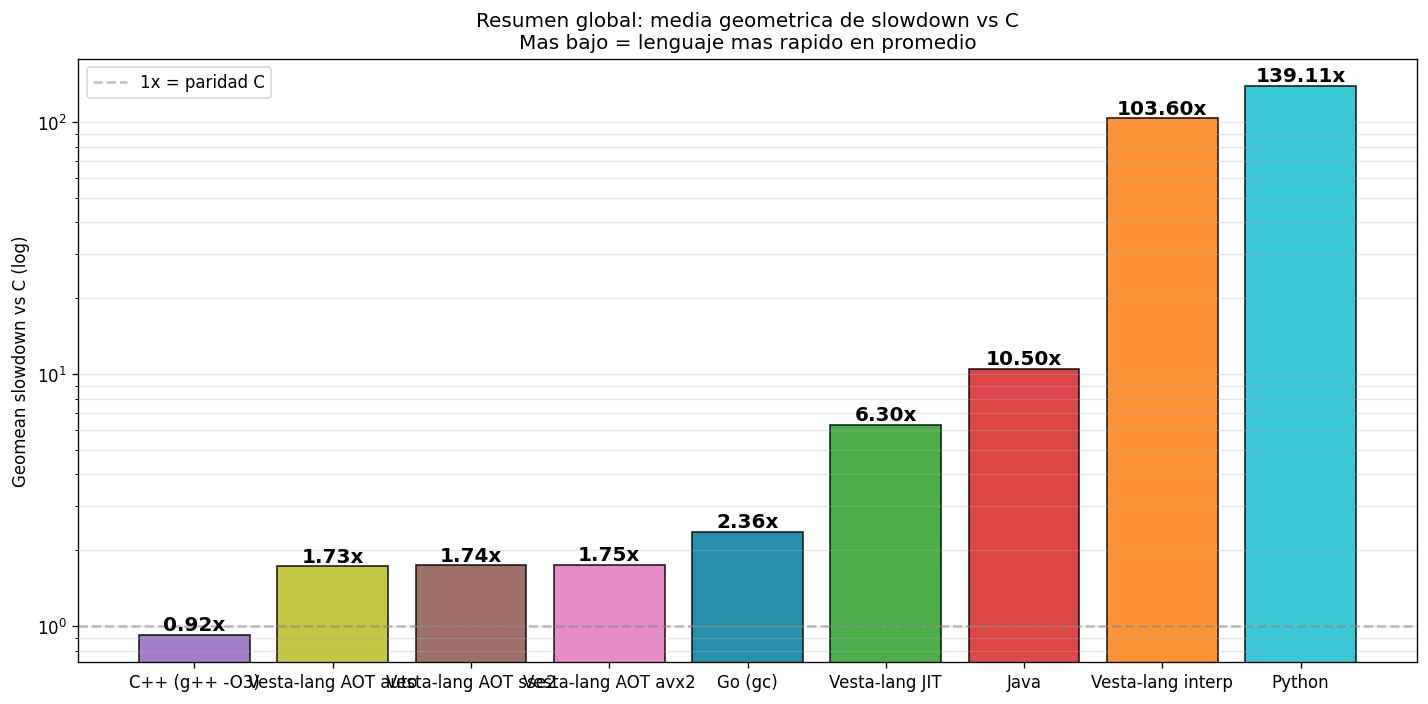
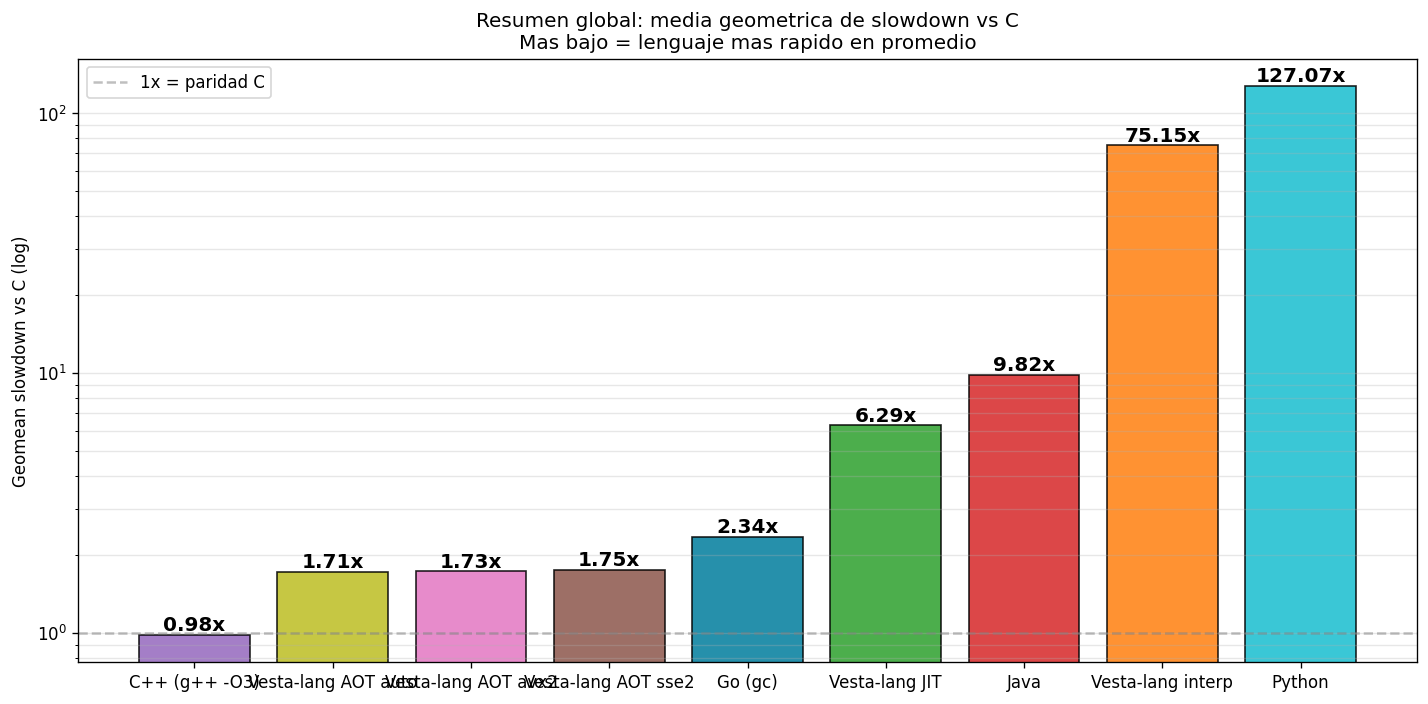
codegen: el parallel-move del vreg (JIT/AOT) usa el modulo compartido
Segunda mitad de la dedup del parallel-move: emit_parallel_moves (GP, MOV) y
emit_parallel_moves_fp (XMM, MOVSD) en regalloc_rewrite.cpp delegan la
SECUENCIACION (orden topologico + ruptura de ciclos) en codegen::sequence_
parallel_moves -- el MISMO algoritmo que el interp.  Cada backend solo emite el
paso en su idioma (MOV/MOVSD de MachineIR).  El src no-registro (MEM) va con
sentinela negativo; se recupera el MOperand original.  El algoritmo de
parallel-move queda UNIFICADO en los 3 backends (interp .vel + JIT + AOT).
e2e 724/0, diff_harness limpio.

diff --git a/bench_plots/index.html b/bench_plots/index.html
@@ -33,7 +33,7 @@
     </style>
 </head><body>
 <h1>VestaVM Benchmark Report</h1>
-<p class="meta">Generado 2026-07-21 00:08:46 &middot; JSON: <code>F:\C\VM\bench_results.json</code></p>
+<p class="meta">Generado 2026-07-24 22:57:32 &middot; JSON: <code>F:\C\VM\bench_results.json</code></p>
 <h2>Sistema</h2>
 <dl class="sysinfo">
 <dt>CPU</dt><dd>13th Gen Intel(R) Core(TM) i7-13700KF (16 fisicos / 24 logicos @ 3400 MHz)</dd>
@@ -43,7 +43,7 @@
 </dl>
 <h2>Toolchains</h2>
 <dl class="sysinfo">
-<dt>Vesta-lang VM</dt><dd>Vesta v0.1.0-alpha (build 2026-07-21 00:07:06, 1e4311b+)</dd>
+<dt>Vesta-lang VM</dt><dd>Vesta v0.1.0-alpha (build 2026-07-24 22:15:37, 2b116f7)</dd>
 <dt>C (gcc)</dt><dd>gcc.EXE (tdm64-1) 10.3.0</dd>
 <dt>C++ (g++)</dt><dd>g++.EXE (tdm64-1) 10.3.0</dd>
 <dt>Python</dt><dd>Python 3.11.0</dd>
@@ -55,51 +55,51 @@
 <table>
 <thead><tr><th>Benchmark</th><th>Vesta-lang interp</th><th>Vesta-lang JIT</th><th>Vesta-lang AOT sse2</th><th>Vesta-lang AOT avx2</th><th>Vesta-lang AOT auto</th><th>C (gcc -O3)</th><th>C++ (g++ -O3)</th><th>Python (CPython)</th><th>Java (HotSpot)</th><th>Go (gc)</th></tr></thead>
 <tbody>
-<tr><td>alloc</td><td>133.1</td><td>33.0</td><td>3.6</td><td>5.8</td><td>3.7</td><td>3.3</td><td class="winner">2.8</td><td>582.3</td><td>73.7</td><td>48.7</td></tr>
-<tr><td>array_sum</td><td>1268.1</td><td>45.8</td><td>12.5</td><td>12.4</td><td>12.6</td><td class="winner">4.5</td><td>5.0</td><td>474.0</td><td>81.1</td><td>11.5</td></tr>
-<tr><td>bitops</td><td>2870.5</td><td>67.4</td><td>38.3</td><td>40.6</td><td>38.8</td><td class="winner">26.1</td><td>26.2</td><td>7328.5</td><td>92.3</td><td>32.7</td></tr>
-<tr><td>branch_unpredict</td><td>3768.4</td><td>54.7</td><td>24.8</td><td>24.5</td><td>24.6</td><td>18.5</td><td class="winner">17.8</td><td>3057.4</td><td>175.0</td><td>20.2</td></tr>
-<tr><td>callvirt</td><td>751.1</td><td>42.8</td><td>9.0</td><td>9.3</td><td>8.9</td><td>4.3</td><td class="winner">2.9</td><td>1848.4</td><td>75.4</td><td>29.2</td></tr>
-<tr><td>callvirt_hot</td><td>314.4</td><td>35.2</td><td>6.1</td><td class="winner">5.8</td><td>5.9</td><td>11.7</td><td>5.9</td><td>727.7</td><td>73.7</td><td>13.9</td></tr>
-<tr><td>cmp_fusion</td><td>703.7</td><td>52.1</td><td>13.6</td><td>13.2</td><td>13.7</td><td>3.9</td><td class="winner">2.8</td><td>1867.5</td><td>71.8</td><td>14.7</td></tr>
-<tr><td>fib_recursive</td><td>345.1</td><td>40.2</td><td>12.4</td><td>12.3</td><td>12.4</td><td>6.1</td><td class="winner">5.8</td><td>250.1</td><td>75.6</td><td>12.1</td></tr>
-<tr><td>fp_jit</td><td>516.1</td><td>77.3</td><td>44.6</td><td>47.6</td><td>44.9</td><td class="winner">10.2</td><td>10.2</td><td>1347.4</td><td>90.7</td><td>20.8</td></tr>
-<tr><td>hash_lookup</td><td>3995.4</td><td>93.3</td><td>64.6</td><td>63.4</td><td>64.7</td><td>15.2</td><td class="winner">13.6</td><td>6694.4</td><td>125.0</td><td>65.6</td></tr>
-<tr><td>int_mixed</td><td>2057.8</td><td>51.4</td><td>26.3</td><td>23.3</td><td>23.1</td><td>19.6</td><td class="winner">19.0</td><td>10988.0</td><td>93.0</td><td>21.1</td></tr>
-<tr><td>intops_jit</td><td>1484.2</td><td>38.5</td><td>7.4</td><td>8.1</td><td>7.2</td><td>3.5</td><td class="winner">3.3</td><td>1122.5</td><td>76.9</td><td>7.6</td></tr>
-<tr><td>jit_method</td><td>429.6</td><td>45.0</td><td>10.0</td><td>10.6</td><td>9.9</td><td class="winner">3.9</td><td>4.0</td><td>1229.4</td><td>79.7</td><td>11.7</td></tr>
-<tr><td>mem_class</td><td>41.5</td><td>30.9</td><td>3.0</td><td>3.4</td><td>2.9</td><td>3.3</td><td class="winner">2.8</td><td>178.8</td><td>70.8</td><td>13.5</td></tr>
-<tr><td>mem_malloc_free</td><td>621.4</td><td>34.9</td><td>6.9</td><td>5.5</td><td>7.1</td><td class="winner">4.4</td><td>4.5</td><td>603.6</td><td>77.5</td><td>88.3</td></tr>
-<tr><td>mem_struct</td><td>502.9</td><td>32.4</td><td>4.9</td><td>4.6</td><td>7.5</td><td class="winner">2.9</td><td>3.9</td><td>499.9</td><td>82.5</td><td>20.3</td></tr>
-<tr><td>memcpy_loop</td><td>1747.5</td><td>34.3</td><td>5.6</td><td>5.7</td><td class="winner">5.3</td><td>5.6</td><td>5.9</td><td>3434.9</td><td>102.4</td><td>23.4</td></tr>
-<tr><td>nested_loops</td><td>1995.1</td><td>55.6</td><td>18.1</td><td>18.0</td><td>18.3</td><td class="winner">14.2</td><td>14.2</td><td>1645.8</td><td>80.7</td><td>22.5</td></tr>
-<tr><td>obj_accum</td><td>1952.3</td><td>71.2</td><td>42.6</td><td>42.9</td><td>42.0</td><td class="winner">28.5</td><td>28.8</td><td>4341.3</td><td>102.8</td><td>32.5</td></tr>
-<tr><td>pic_real</td><td>576.7</td><td>155.0</td><td>11.4</td><td>11.1</td><td>11.5</td><td class="winner">5.6</td><td>6.3</td><td>320.5</td><td>76.1</td><td>7.7</td></tr>
-<tr><td>polymorphic</td><td>723.7</td><td>64.1</td><td>29.6</td><td>30.0</td><td>29.7</td><td class="winner">8.8</td><td>9.4</td><td>1062.9</td><td>81.1</td><td>13.3</td></tr>
-<tr><td>quicksort</td><td>237.3</td><td>38.6</td><td>9.4</td><td>8.9</td><td>9.5</td><td class="winner">7.2</td><td>7.5</td><td>160.6</td><td>82.3</td><td>9.8</td></tr>
-<tr><td>rotops_jit</td><td>977.0</td><td>38.4</td><td>4.7</td><td>8.2</td><td>5.1</td><td>7.7</td><td class="winner">3.9</td><td>1391.8</td><td>80.0</td><td>7.1</td></tr>
-<tr><td>state_machine</td><td>2288.9</td><td>69.3</td><td>40.2</td><td>38.8</td><td>38.9</td><td>24.2</td><td class="winner">20.4</td><td>1633.2</td><td>89.1</td><td>24.4</td></tr>
-<tr><td>string_hot</td><td>42.8</td><td>30.9</td><td>9.9</td><td>8.3</td><td>8.8</td><td>8.6</td><td class="winner">6.4</td><td>68.0</td><td>82.4</td><td>19.9</td></tr>
-<tr><td>string_workout</td><td>1965.2</td><td>301.1</td><td>58.8</td><td>58.6</td><td>60.2</td><td>30.8</td><td>38.1</td><td>534.5</td><td>186.6</td><td class="winner">20.7</td></tr>
-<tr><td>struct_field</td><td>1253.5</td><td>52.0</td><td>20.7</td><td>21.4</td><td>20.8</td><td>5.2</td><td class="winner">5.0</td><td>5186.0</td><td>78.3</td><td>18.1</td></tr>
-<tr><td>tight_loop</td><td>1906.6</td><td>49.5</td><td>13.0</td><td>13.6</td><td>15.0</td><td class="winner">12.8</td><td>13.1</td><td>1069.3</td><td>81.6</td><td>21.6</td></tr>
-<tr><td>vec_axpy</td><td>18754.8</td><td>86.0</td><td>78.3</td><td>45.1</td><td>44.9</td><td>18.3</td><td class="winner">17.6</td><td>6096.1</td><td>120.9</td><td>64.2</td></tr>
+<tr><td>alloc</td><td>90.9</td><td>44.1</td><td>5.1</td><td>5.4</td><td>4.8</td><td>4.1</td><td class="winner">3.8</td><td>593.9</td><td>75.5</td><td>50.8</td></tr>
+<tr><td>array_sum</td><td>1203.7</td><td>43.3</td><td>12.2</td><td>12.7</td><td>12.2</td><td>6.6</td><td class="winner">5.7</td><td>475.1</td><td>84.9</td><td>15.1</td></tr>
+<tr><td>bitops</td><td>2463.7</td><td>65.4</td><td>40.6</td><td>39.5</td><td>39.9</td><td class="winner">26.2</td><td>26.5</td><td>7150.2</td><td>98.2</td><td>34.5</td></tr>
+<tr><td>branch_unpredict</td><td>2755.1</td><td>60.7</td><td>27.4</td><td>27.5</td><td>27.2</td><td>19.0</td><td class="winner">18.7</td><td>3039.9</td><td>176.7</td><td>21.8</td></tr>
+<tr><td>callvirt</td><td>409.7</td><td>43.1</td><td>8.8</td><td>8.6</td><td>9.5</td><td class="winner">3.8</td><td>5.7</td><td>1812.8</td><td>72.5</td><td>29.8</td></tr>
+<tr><td>callvirt_hot</td><td>188.6</td><td>95.4</td><td>5.9</td><td>6.1</td><td>6.0</td><td>11.9</td><td class="winner">5.7</td><td>741.7</td><td>73.0</td><td>14.0</td></tr>
+<tr><td>cmp_fusion</td><td>782.6</td><td>51.2</td><td>13.8</td><td>14.1</td><td>14.3</td><td class="winner">3.4</td><td>4.3</td><td>1869.2</td><td>77.2</td><td>16.1</td></tr>
+<tr><td>fib_recursive</td><td>312.0</td><td>41.9</td><td>13.7</td><td>13.2</td><td>14.4</td><td class="winner">7.1</td><td>8.2</td><td>255.4</td><td>77.8</td><td>13.7</td></tr>
+<tr><td>fp_jit</td><td>432.3</td><td>72.5</td><td>47.0</td><td>47.3</td><td>46.7</td><td>11.9</td><td class="winner">10.9</td><td>1352.1</td><td>93.6</td><td>22.3</td></tr>
+<tr><td>hash_lookup</td><td>3900.9</td><td>97.3</td><td>67.0</td><td>65.9</td><td>67.7</td><td class="winner">13.9</td><td>14.7</td><td>6590.5</td><td>137.4</td><td>67.4</td></tr>
+<tr><td>int_mixed</td><td>1915.8</td><td>51.2</td><td>24.2</td><td>23.7</td><td>24.7</td><td>19.7</td><td class="winner">19.5</td><td>12774.6</td><td>91.7</td><td>22.1</td></tr>
+<tr><td>intops_jit</td><td>1145.6</td><td>38.0</td><td>8.8</td><td>9.3</td><td>8.8</td><td>4.3</td><td class="winner">3.9</td><td>1095.7</td><td>79.0</td><td>9.8</td></tr>
+<tr><td>jit_method</td><td>480.3</td><td>44.7</td><td>10.7</td><td>10.4</td><td>10.2</td><td class="winner">4.6</td><td>4.9</td><td>1213.9</td><td>76.7</td><td>12.7</td></tr>
+<tr><td>mem_class</td><td>44.2</td><td>31.4</td><td>4.7</td><td>5.6</td><td>4.6</td><td>5.0</td><td class="winner">3.8</td><td>178.6</td><td>74.5</td><td>14.1</td></tr>
+<tr><td>mem_malloc_free</td><td>664.0</td><td>33.6</td><td>6.6</td><td>6.8</td><td>7.1</td><td>5.9</td><td class="winner">4.9</td><td>592.7</td><td>78.0</td><td>87.8</td></tr>
+<tr><td>mem_struct</td><td>365.2</td><td>34.1</td><td>6.0</td><td>6.3</td><td>5.8</td><td>4.9</td><td class="winner">3.5</td><td>438.9</td><td>74.5</td><td>21.1</td></tr>
+<tr><td>memcpy_loop</td><td>67.2</td><td>33.6</td><td>6.8</td><td>6.4</td><td>6.9</td><td class="winner">6.2</td><td>6.5</td><td>3381.4</td><td>103.5</td><td>24.4</td></tr>
+<tr><td>nested_loops</td><td>1545.7</td><td>52.2</td><td>19.0</td><td>18.0</td><td>18.2</td><td>15.3</td><td class="winner">15.1</td><td>1593.7</td><td>85.7</td><td>23.5</td></tr>
+<tr><td>obj_accum</td><td>1684.6</td><td>79.5</td><td>43.4</td><td>42.9</td><td>43.8</td><td class="winner">29.4</td><td>29.5</td><td>4227.1</td><td>98.6</td><td>32.6</td></tr>
+<tr><td>pic_real</td><td>598.4</td><td>479.1</td><td>12.5</td><td>12.1</td><td>11.8</td><td class="winner">5.9</td><td>6.8</td><td>312.5</td><td>75.6</td><td>8.5</td></tr>
+<tr><td>polymorphic</td><td>403.1</td><td>61.0</td><td>31.0</td><td>30.1</td><td>29.8</td><td class="winner">9.3</td><td>10.4</td><td>1063.0</td><td>82.7</td><td>13.9</td></tr>
+<tr><td>quicksort</td><td>268.1</td><td>36.6</td><td>10.9</td><td>10.3</td><td>10.6</td><td class="winner">8.0</td><td>10.9</td><td>153.7</td><td>81.2</td><td>10.8</td></tr>
+<tr><td>rotops_jit</td><td>807.8</td><td>34.3</td><td>6.8</td><td>6.5</td><td>6.5</td><td class="winner">4.7</td><td>4.8</td><td>1425.8</td><td>79.6</td><td>8.3</td></tr>
+<tr><td>state_machine</td><td>1487.5</td><td>68.5</td><td>39.3</td><td>39.9</td><td>39.3</td><td class="winner">20.1</td><td>20.4</td><td>1607.9</td><td>90.2</td><td>28.1</td></tr>
+<tr><td>string_hot</td><td>41.5</td><td>34.5</td><td>8.8</td><td>10.2</td><td>9.3</td><td>9.8</td><td class="winner">6.6</td><td>66.6</td><td>83.2</td><td>20.1</td></tr>
+<tr><td>string_workout</td><td>3021.4</td><td>276.3</td><td>62.2</td><td>62.3</td><td>64.6</td><td>32.0</td><td>40.7</td><td>514.4</td><td>184.7</td><td class="winner">21.6</td></tr>
+<tr><td>struct_field</td><td>1208.2</td><td>52.5</td><td>21.7</td><td>22.2</td><td>22.4</td><td class="winner">6.1</td><td>6.4</td><td>5085.5</td><td>82.5</td><td>19.3</td></tr>
+<tr><td>tight_loop</td><td>1374.5</td><td>50.1</td><td>15.1</td><td>14.9</td><td>14.8</td><td class="winner">13.6</td><td>14.0</td><td>1027.6</td><td>82.7</td><td>23.3</td></tr>
+<tr><td>vec_axpy</td><td>25583.2</td><td>85.1</td><td>79.4</td><td>46.5</td><td>45.1</td><td>18.4</td><td class="winner">17.5</td><td>6016.3</td><td>122.5</td><td>64.0</td></tr>
 </tbody></table>
 <h2>Geomean slowdown vs C por categoria</h2>
 <p class="meta">Verde &lt;1.5x &middot; Amarillo &lt;3x &middot; Rojo &ge;3x</p>
 <table>
 <thead><tr><th>Categoria</th><th>N</th><th>Vesta-lang interp</th><th>Vesta-lang JIT</th><th>Vesta-lang AOT sse2</th><th>Vesta-lang AOT avx2</th><th>Vesta-lang AOT auto</th><th>C++ (g++ -O3)</th><th>Python (CPython)</th><th>Java (HotSpot)</th><th>Go (gc)</th></tr></thead>
 <tbody>
-<tr><td>alloc</td><td>4</td><td class="cat-bad">59.40x</td><td class="cat-bad">9.55x</td><td class="cat-good">1.28x</td><td class="cat-good">1.38x</td><td class="cat-good">1.43x</td><td class="cat-good">1.00x</td><td class="cat-bad">122.70x</td><td class="cat-bad">22.14x</td><td class="cat-bad">9.61x</td></tr>
-<tr><td>bit</td><td>2</td><td class="cat-bad">117.92x</td><td class="cat-bad">3.58x</td><td class="cat-good">0.95x</td><td class="cat-good">1.29x</td><td class="cat-good">0.99x</td><td class="cat-good">0.71x</td><td class="cat-bad">224.89x</td><td class="cat-bad">6.05x</td><td class="cat-good">1.08x</td></tr>
-<tr><td>branch</td><td>3</td><td class="cat-bad">85.92x</td><td class="cat-bad">3.57x</td><td class="cat-good">1.43x</td><td class="cat-good">1.38x</td><td class="cat-good">1.41x</td><td class="cat-good">0.94x</td><td class="cat-bad">62.87x</td><td class="cat-bad">7.35x</td><td class="cat-good">1.14x</td></tr>
-<tr><td>fp</td><td>1</td><td class="cat-bad">50.78x</td><td class="cat-bad">7.61x</td><td class="cat-bad">4.39x</td><td class="cat-bad">4.69x</td><td class="cat-bad">4.42x</td><td class="cat-good">1.01x</td><td class="cat-bad">132.57x</td><td class="cat-bad">8.92x</td><td class="cat-mid">2.05x</td></tr>
-<tr><td>hash</td><td>1</td><td class="cat-bad">262.37x</td><td class="cat-bad">6.13x</td><td class="cat-bad">4.24x</td><td class="cat-bad">4.17x</td><td class="cat-bad">4.25x</td><td class="cat-good">0.89x</td><td class="cat-bad">439.60x</td><td class="cat-bad">8.21x</td><td class="cat-bad">4.31x</td></tr>
-<tr><td>int</td><td>7</td><td class="cat-bad">139.52x</td><td class="cat-bad">6.39x</td><td class="cat-mid">1.82x</td><td class="cat-mid">1.83x</td><td class="cat-mid">1.82x</td><td class="cat-good">0.94x</td><td class="cat-bad">194.64x</td><td class="cat-bad">10.81x</td><td class="cat-mid">2.02x</td></tr>
-<tr><td>mem</td><td>2</td><td class="cat-bad">296.80x</td><td class="cat-bad">7.90x</td><td class="cat-mid">1.67x</td><td class="cat-mid">1.68x</td><td class="cat-mid">1.62x</td><td class="cat-good">1.09x</td><td class="cat-bad">254.40x</td><td class="cat-bad">18.17x</td><td class="cat-bad">3.28x</td></tr>
-<tr><td>misc</td><td>2</td><td class="cat-bad">264.57x</td><td class="cat-bad">3.42x</td><td class="cat-mid">2.53x</td><td class="cat-mid">1.92x</td><td class="cat-mid">1.90x</td><td class="cat-good">0.99x</td><td class="cat-bad">224.93x</td><td class="cat-bad">4.87x</td><td class="cat-mid">2.00x</td></tr>
-<tr><td>oop</td><td>5</td><td class="cat-bad">98.93x</td><td class="cat-bad">9.02x</td><td class="cat-mid">1.97x</td><td class="cat-mid">1.96x</td><td class="cat-mid">1.96x</td><td class="cat-good">0.83x</td><td class="cat-bad">178.71x</td><td class="cat-bad">11.56x</td><td class="cat-mid">2.25x</td></tr>
-<tr><td>string</td><td>2</td><td class="cat-bad">17.81x</td><td class="cat-bad">5.92x</td><td class="cat-good">1.48x</td><td class="cat-good">1.36x</td><td class="cat-good">1.41x</td><td class="cat-good">0.96x</td><td class="cat-bad">11.71x</td><td class="cat-bad">7.62x</td><td class="cat-good">1.24x</td></tr>
+<tr><td>alloc</td><td>4</td><td class="cat-bad">35.81x</td><td class="cat-bad">7.20x</td><td class="cat-good">1.12x</td><td class="cat-good">1.22x</td><td class="cat-good">1.11x</td><td class="cat-good">0.81x</td><td class="cat-bad">82.61x</td><td class="cat-bad">15.33x</td><td class="cat-bad">6.88x</td></tr>
+<tr><td>bit</td><td>2</td><td class="cat-bad">127.70x</td><td class="cat-bad">4.29x</td><td class="cat-mid">1.51x</td><td class="cat-good">1.45x</td><td class="cat-good">1.45x</td><td class="cat-good">1.02x</td><td class="cat-bad">289.03x</td><td class="cat-bad">8.00x</td><td class="cat-mid">1.53x</td></tr>
+<tr><td>branch</td><td>3</td><td class="cat-bad">71.04x</td><td class="cat-bad">3.67x</td><td class="cat-mid">1.56x</td><td class="cat-mid">1.55x</td><td class="cat-mid">1.55x</td><td class="cat-good">1.11x</td><td class="cat-bad">62.59x</td><td class="cat-bad">7.50x</td><td class="cat-good">1.29x</td></tr>
+<tr><td>fp</td><td>1</td><td class="cat-bad">36.42x</td><td class="cat-bad">6.11x</td><td class="cat-bad">3.96x</td><td class="cat-bad">3.98x</td><td class="cat-bad">3.94x</td><td class="cat-good">0.92x</td><td class="cat-bad">113.92x</td><td class="cat-bad">7.88x</td><td class="cat-mid">1.88x</td></tr>
+<tr><td>hash</td><td>1</td><td class="cat-bad">279.72x</td><td class="cat-bad">6.97x</td><td class="cat-bad">4.80x</td><td class="cat-bad">4.72x</td><td class="cat-bad">4.85x</td><td class="cat-good">1.05x</td><td class="cat-bad">472.58x</td><td class="cat-bad">9.86x</td><td class="cat-bad">4.83x</td></tr>
+<tr><td>int</td><td>7</td><td class="cat-bad">115.72x</td><td class="cat-bad">5.90x</td><td class="cat-mid">1.80x</td><td class="cat-mid">1.78x</td><td class="cat-mid">1.81x</td><td class="cat-good">1.05x</td><td class="cat-bad">182.52x</td><td class="cat-bad">10.27x</td><td class="cat-mid">2.08x</td></tr>
+<tr><td>mem</td><td>2</td><td class="cat-bad">44.21x</td><td class="cat-bad">5.93x</td><td class="cat-good">1.42x</td><td class="cat-good">1.40x</td><td class="cat-good">1.43x</td><td class="cat-good">0.95x</td><td class="cat-bad">197.05x</td><td class="cat-bad">14.57x</td><td class="cat-mid">2.99x</td></tr>
+<tr><td>misc</td><td>2</td><td class="cat-bad">282.57x</td><td class="cat-bad">3.54x</td><td class="cat-mid">2.53x</td><td class="cat-mid">1.92x</td><td class="cat-mid">1.91x</td><td class="cat-good">0.98x</td><td class="cat-bad">217.07x</td><td class="cat-bad">4.73x</td><td class="cat-mid">1.96x</td></tr>
+<tr><td>oop</td><td>5</td><td class="cat-bad">68.39x</td><td class="cat-bad">13.31x</td><td class="cat-mid">1.96x</td><td class="cat-mid">1.95x</td><td class="cat-mid">1.97x</td><td class="cat-good">1.00x</td><td class="cat-bad">172.08x</td><td class="cat-bad">11.26x</td><td class="cat-mid">2.29x</td></tr>
+<tr><td>string</td><td>2</td><td class="cat-bad">19.94x</td><td class="cat-bad">5.50x</td><td class="cat-good">1.32x</td><td class="cat-good">1.42x</td><td class="cat-good">1.38x</td><td class="cat-good">0.93x</td><td class="cat-bad">10.43x</td><td class="cat-bad">6.98x</td><td class="cat-good">1.17x</td></tr>
 </tbody></table>
 <h2>Graficas</h2>
 <div class="grid-plots">

diff --git a/src/jit/regalloc_rewrite.cpp b/src/jit/regalloc_rewrite.cpp
@@ -14,6 +14,7 @@
 #include "jit/regalloc_rewrite.h"
 
 #include "codegen/transition_planner.h" // que movimientos exige cada punto del programa
+#include "codegen/parallel_move.h" // sequence_parallel_moves (compartido 3 modos)
 
 #include <cstdio>
 #include <cstdlib>
@@ -389,45 +390,29 @@ struct Lowerer {
      */
     void emit_parallel_moves(std::vector<std::pair<MReg, MOperand>> moves,
                              MReg scratch, std::vector<MInstr> &out) const {
-        const size_t n = moves.size();
-        std::vector<bool> done(n, false);
-        size_t remaining = n;
-        auto reads_dst = [&](size_t i) -> bool {
-            for (size_t j = 0; j < n; ++j) {
-                if (done[j] || j == i) continue;
-                if (moves[j].second.kind == MOperandKind::REG &&
-                    moves[j].second.reg == reg_id(moves[i].first))
-                    return true;
-            }
-            return false;
-        };
-        while (remaining > 0) {
-            bool progress = false;
-            for (size_t i = 0; i < n; ++i) {
-                if (done[i] || reads_dst(i)) continue;
-                out.push_back(MInstr::make_unary(MOp::MOV, reg(moves[i].first),
-                                                 moves[i].second));
-                done[i] = true;
-                --remaining;
-                progress = true;
-            }
-            if (progress) continue;
-            /* Ciclo: salvar un dst a scratch y romperlo. */
-            for (size_t i = 0; i < n; ++i) {
-                if (done[i]) continue;
-                const MReg d = moves[i].first;
-                out.push_back(
-                    MInstr::make_unary(MOp::MOV, reg(scratch), reg(d)));
-                for (size_t j = 0; j < n; ++j)
-                    if (!done[j] && moves[j].second.kind == MOperandKind::REG &&
-                        moves[j].second.reg == reg_id(d))
-                        moves[j].second = reg(scratch);
-                out.push_back(
-                    MInstr::make_unary(MOp::MOV, reg(d), moves[i].second));
-                done[i] = true;
-                --remaining;
-                break;
-            }
+        // Secuenciacion via el modulo COMPARTIDO (codegen::sequence_parallel_
+        // moves): mismo algoritmo que el interp.  Codificamos el src registro
+        // por su id; un src NO-registro (MEM/derrame) va con sentinela
+        // negativo -(i+1) (nunca lee un dst; su MOperand se recupera del
+        // vector original).  El vreg solo EMITE cada paso como un MOp::MOV.
+        std::vector<codegen::PMoveStep> steps;
+        steps.reserve(moves.size());
+        for (size_t i = 0; i < moves.size(); ++i) {
+            const int dst = reg_id(moves[i].first);
+            const int src = (moves[i].second.kind == MOperandKind::REG)
+                                ? static_cast<int>(moves[i].second.reg)
+                                : -static_cast<int>(i + 1);
+            steps.push_back({dst, src});
+        }
+        for (const auto &st :
+             codegen::sequence_parallel_moves(std::move(steps),
+                                              reg_id(scratch))) {
+            const MOperand src_op =
+                (st.src >= 0)
+                    ? reg(static_cast<MReg>(st.src))
+                    : moves[static_cast<size_t>(-st.src - 1)].second;
+            out.push_back(MInstr::make_unary(
+                MOp::MOV, reg(static_cast<MReg>(st.dst)), src_op));
         }
     }
 
@@ -745,44 +730,26 @@ struct Lowerer {
      *  scratch XMM.  Las fuentes son siempre XMM arg-regs (no memoria). */
     void emit_parallel_moves_fp(std::vector<std::pair<MReg, MOperand>> moves,
                                 MReg scratch, std::vector<MInstr> &out) const {
-        const size_t n = moves.size();
-        std::vector<bool> done(n, false);
-        size_t remaining = n;
-        auto reads_dst = [&](size_t i) -> bool {
-            for (size_t j = 0; j < n; ++j) {
-                if (done[j] || j == i) continue;
-                if (moves[j].second.kind == MOperandKind::REG &&
-                    moves[j].second.reg == reg_id(moves[i].first))
-                    return true;
-            }
-            return false;
-        };
-        while (remaining > 0) {
-            bool progress = false;
-            for (size_t i = 0; i < n; ++i) {
-                if (done[i] || reads_dst(i)) continue;
-                out.push_back(MInstr::make_unary(MOp::MOVSD, xmm(moves[i].first),
-                                                 moves[i].second));
-                done[i] = true;
-                --remaining;
-                progress = true;
-            }
-            if (progress) continue;
-            for (size_t i = 0; i < n; ++i) {
-                if (done[i]) continue;
-                const MReg d = moves[i].first;
-                out.push_back(
-                    MInstr::make_unary(MOp::MOVSD, xmm(scratch), xmm(d)));
-                for (size_t j = 0; j < n; ++j)
-                    if (!done[j] && moves[j].second.kind == MOperandKind::REG &&
-                        moves[j].second.reg == reg_id(d))
-                        moves[j].second = xmm(scratch);
-                out.push_back(MInstr::make_unary(MOp::MOVSD, xmm(d),
-                                                 moves[i].second));
-                done[i] = true;
-                --remaining;
-                break;
-            }
+        // Igual que emit_parallel_moves pero banco XMM (MOp::MOVSD, xmm()); la
+        // SECUENCIACION es la misma (codegen::sequence_parallel_moves).
+        std::vector<codegen::PMoveStep> steps;
+        steps.reserve(moves.size());
+        for (size_t i = 0; i < moves.size(); ++i) {
+            const int dst = reg_id(moves[i].first);
+            const int src = (moves[i].second.kind == MOperandKind::REG)
+                                ? static_cast<int>(moves[i].second.reg)
+                                : -static_cast<int>(i + 1);
+            steps.push_back({dst, src});
+        }
+        for (const auto &st :
+             codegen::sequence_parallel_moves(std::move(steps),
+                                              reg_id(scratch))) {
+            const MOperand src_op =
+                (st.src >= 0)
+                    ? xmm(static_cast<MReg>(st.src))
+                    : moves[static_cast<size_t>(-st.src - 1)].second;
+            out.push_back(MInstr::make_unary(
+                MOp::MOVSD, xmm(static_cast<MReg>(st.dst)), src_op));
         }
     }
 
